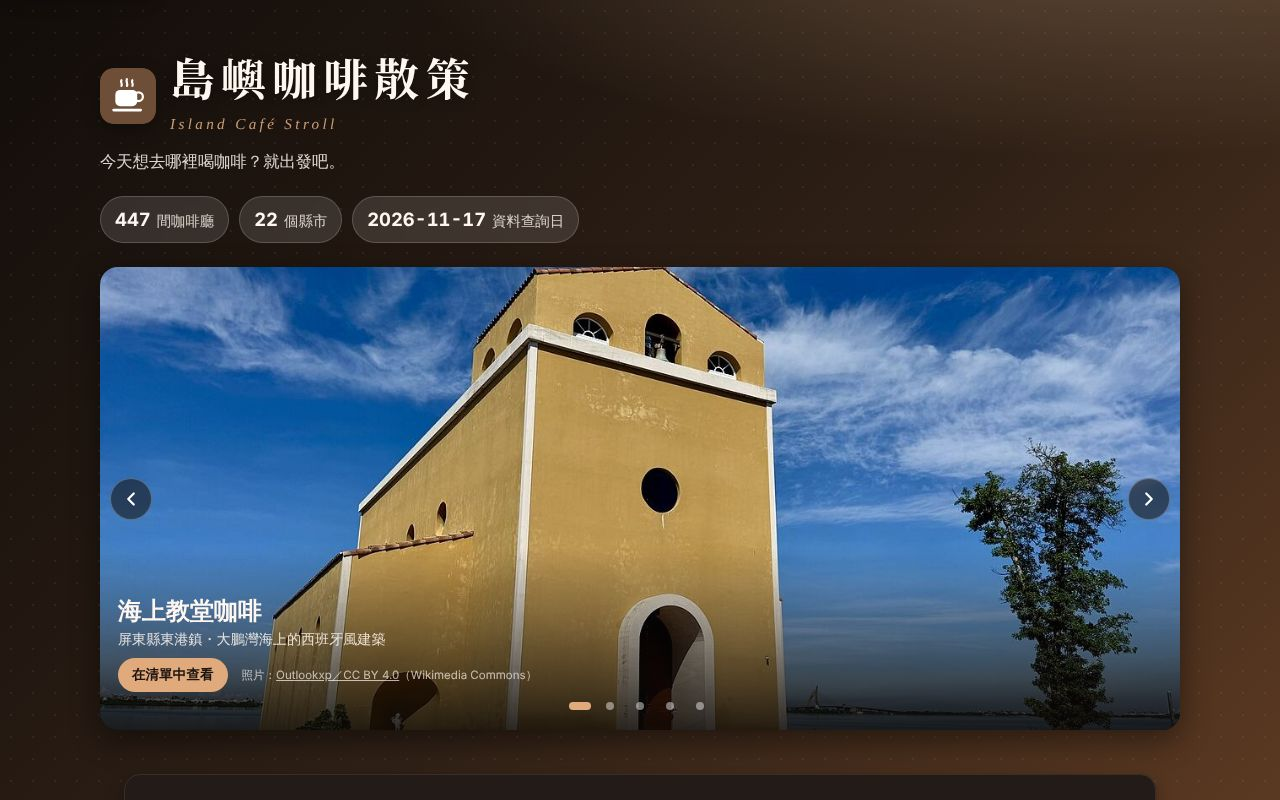
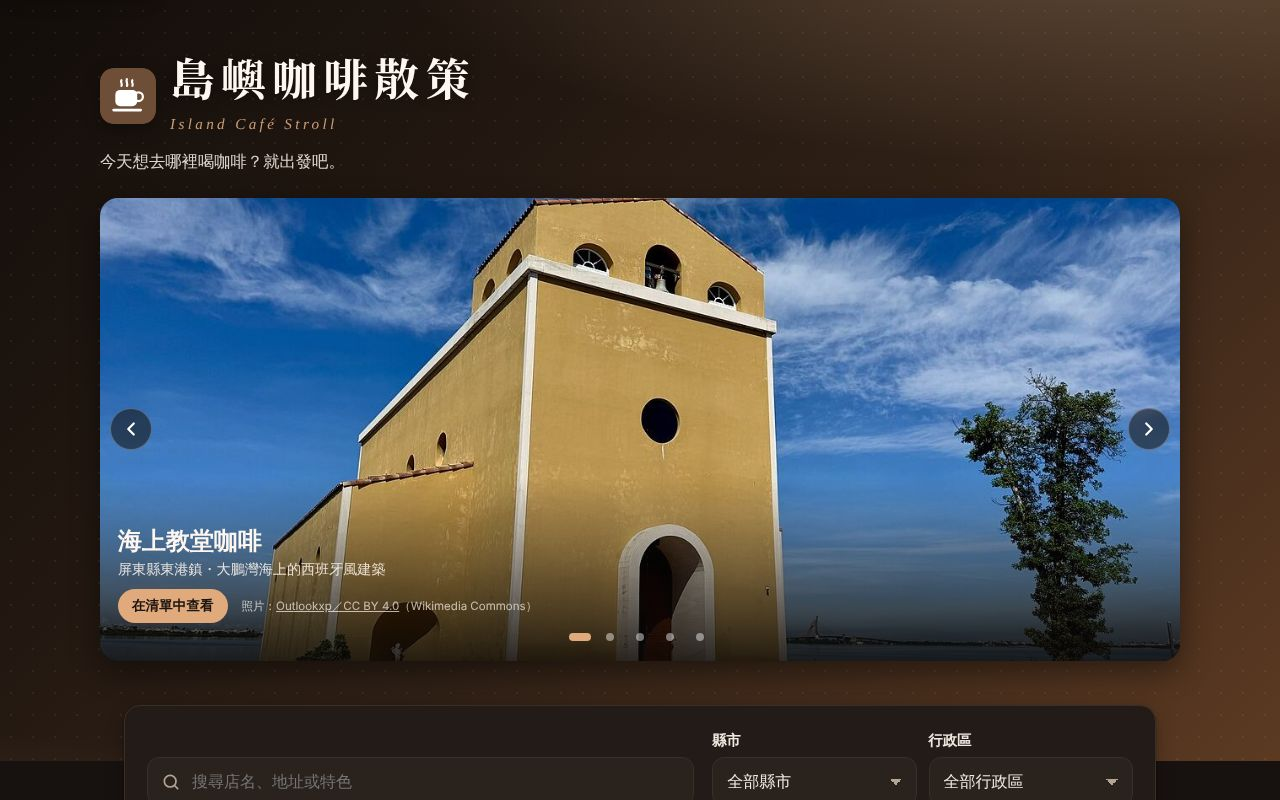
移除標語下方的統計標籤，查詢日改放頁尾
Claude-Session: https://claude.ai/code/session_01LUVCkZAwZdgNwQd1aVRFf3

diff --git a/index.html b/index.html
@@ -20,7 +20,7 @@
        並同步更新 sw.js 的 VERSION，讓瀏覽器與離線快取都換成新版 -->
   <!-- 標題字體：只含「島嶼咖啡散策」六個字的 Noto Serif TC 子集（約 3 KB），先行載入避免閃爍 -->
   <link rel="preload" href="fonts/title-serif-700.woff2" as="font" type="font/woff2" crossorigin>
-  <link rel="stylesheet" href="style.css?v=20261117-15">
+  <link rel="stylesheet" href="style.css?v=20261117-16">
 </head>
 <body>
   <a class="skip-link" href="#cafe-list">跳到咖啡廳清單</a>
@@ -34,11 +34,6 @@
         </div>
       </div>
       <p class="hero-sub"><span>今天想去哪裡喝咖啡？</span><span>就出發吧。</span></p>
-      <ul class="stats" aria-label="收錄概況">
-        <li><strong id="stat-cafes">–</strong><span>間咖啡廳</span></li>
-        <li><strong id="stat-cities">–</strong><span>個縣市</span></li>
-        <li><strong id="checked-at">–</strong><span>資料查詢日</span></li>
-      </ul>
 
       <!-- PWA 安裝：Android／電腦顯示按鈕，iPhone 顯示加入主畫面教學；已安裝時都不顯示 -->
       <div class="install-row">
@@ -110,7 +105,7 @@
   </main>
 
   <footer class="site-footer">
-    <p>營業時間與公休日常會變動，出發前請以店家官方公告為準。</p>
+    <p>營業時間與公休日常會變動，出發前請以店家官方公告為準。資料查詢日：<span id="checked-at"></span></p>
     <p>資料由 AI 整理自公開網路文章，僅供參考。</p>
   </footer>
 
@@ -123,8 +118,8 @@
     <svg viewBox="0 0 24 24" aria-hidden="true"><path d="m6 14 6-6 6 6"/></svg>
   </button>
 
-  <script src="cafes.js?v=20261117-15"></script>
-  <script src="slides.js?v=20261117-15"></script>
-  <script src="app.js?v=20261117-15"></script>
+  <script src="cafes.js?v=20261117-16"></script>
+  <script src="slides.js?v=20261117-16"></script>
+  <script src="app.js?v=20261117-16"></script>
 </body>
 </html>

diff --git a/style.css b/style.css
@@ -94,18 +94,6 @@ body {
 }
 .hero-sub { margin: 12px 0 0; max-width: 34em; color: rgba(255, 247, 239, 0.85); font-size: 1.02rem; }
 
-.stats { list-style: none; display: flex; flex-wrap: wrap; gap: 10px; margin: 22px 0 0; padding: 0; }
-.stats li {
-  display: flex; align-items: baseline; gap: 6px;
-  padding: 8px 14px;
-  border-radius: 999px;
-  background: rgba(255, 255, 255, 0.12);
-  border: 1px solid rgba(255, 255, 255, 0.18);
-  backdrop-filter: blur(4px);
-  font-size: 0.9rem;
-}
-.stats strong { font-size: 1.15rem; font-variant-numeric: tabular-nums; }
-.stats span { color: rgba(255, 247, 239, 0.8); }
 
 /* ===================== 版面 ===================== */
 main { max-width: 1080px; margin: 0 auto; padding: 0 16px; }
@@ -327,9 +315,6 @@ select {
   .hero-icon { width: 44px; height: 44px; border-radius: 12px; }
   .hero h1 { font-size: 1.75rem; }
   .hero-sub { font-size: 0.95rem; margin-top: 8px; }
-  .stats { gap: 6px; margin-top: 14px; }
-  .stats li { padding: 4px 11px; font-size: 0.8rem; gap: 4px; }
-  .stats strong { font-size: 0.98rem; }
   .filters { margin-top: -48px; padding: 16px; }
   .chips { margin: 0 -16px; padding: 2px 16px 4px; }
 }

diff --git a/sw.js b/sw.js
@@ -6,7 +6,7 @@
 //
 // 版本號：修改下面 PRECACHE 裡的檔案或 index.html 的 ?v= 版本號時，
 // 請一起更新 VERSION，舊快取會在新版啟用時自動清除。
-const VERSION = "20261117-15";
+const VERSION = "20261117-16";
 const PREFIX = "taichung-cafe-";
 const CACHE = PREFIX + VERSION;
 // 先前「報修登記」版本留下的快取，一併清除

diff --git a/app.js b/app.js
@@ -120,8 +120,6 @@
 
   // ---------- 篩選選項 ----------
   $("checked-at").textContent = data.CHECKED_AT;
-  $("stat-cafes").textContent = String(cafes.length);
-  $("stat-cities").textContent = String(new Set(cafes.map((c) => c.city)).size);
 
   // 縣市依 CITY_ORDER（由北到南）排序，沒列在裡面的放最後
   const order = data.CITY_ORDER || [];
